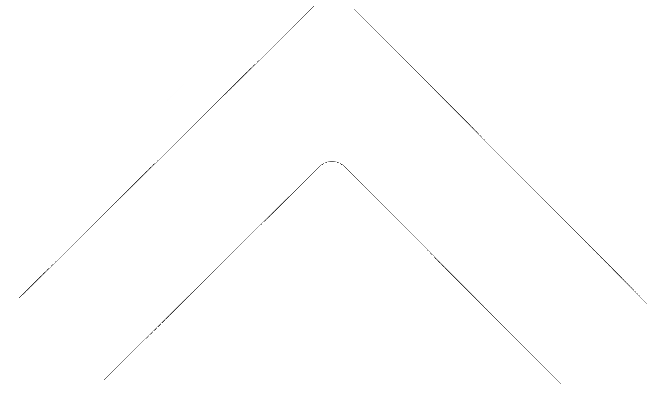
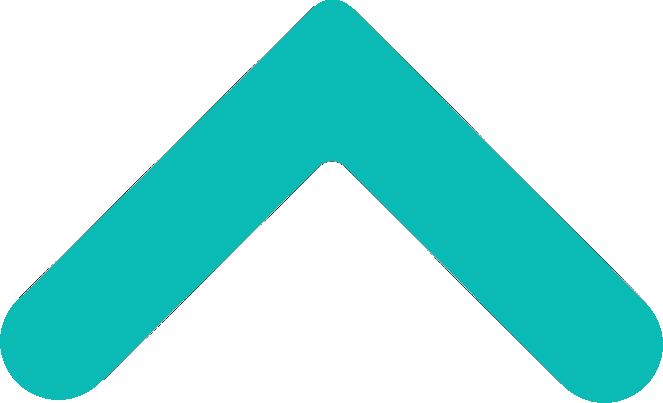
6

diff --git a/affiliation.html b/affiliation.html
@@ -4,11 +4,10 @@
 	<!-- Global site tag (gtag.js) - Google Analytics -->
 	<script async src="https://www.googletagmanager.com/gtag/js?id=G-1KHWXSW6M0"></script>
 	<script>
-	  window.dataLayer = window.dataLayer || [];
-	  function gtag(){dataLayer.push(arguments);}
-	  gtag('js', new Date());
-
-	  gtag('config', 'G-1KHWXSW6M0');
+		window.dataLayer = window.dataLayer || [];
+		function gtag(){dataLayer.push(arguments);}
+		gtag('js', new Date())	
+		gtag('config', 'G-1KHWXSW6M0');
 	</script>
 
 	<meta charset="utf-8">
@@ -103,8 +102,8 @@
 					Prova il calcolatore e dai un'occhiata al potenziale della filiera dei contatti, sono riportati anche i valori dei premi per singolo utente evidenziati in giallo.</p>
 				<p></p>
 			</div>
-
-			<div class="wrapper" id="calculator">
+			<div class="wrapper">
+				<div class="anchor-adjust-calculator" id="calculator"></div>
 
 
 				<h1 class="wrapper__title">Calcolatore filiera</h1>
@@ -122,25 +121,25 @@
 								<input class="input calculator__tip" type="range" min="0" max="10" value="0" step="1" id="tip1" required/>
 								<p id="slider-value-1"></p>
 						</div>
-							<div class="calculator__row">
-								<label for="tip">2° Livello<span class="tip-amount"></span></label>
-								<input class="input calculator__tip" type="range" min="0" max="10" value="0" step="1" id="tip2" required/>
-								<p id="slider-value-2"></p>
+						<div class="calculator__row">
+							<label for="tip">2° Livello<span class="tip-amount"></span></label>
+							<input class="input calculator__tip" type="range" min="0" max="10" value="0" step="1" id="tip2" required/>
+							<p id="slider-value-2"></p>
 						</div>
-							<div class="calculator__row">
-								<label for="tip">3° Livello<span class="tip-amount"></span></label>
-								<input class="input calculator__tip" type="range" min="0" max="10" value="0" step="1" id="tip3" required/>
-								<p id="slider-value-3"></p>
+						<div class="calculator__row">
+							<label for="tip">3° Livello<span class="tip-amount"></span></label>
+							<input class="input calculator__tip" type="range" min="0" max="10" value="0" step="1" id="tip3" required/>
+							<p id="slider-value-3"></p>
 						</div>
-							<div class="calculator__row">
-								<label for="tip">4° Livello<span class="tip-amount"></span></label>
-								<input class="input calculator__tip" type="range" min="0" max="10" value="0" step="1" id="tip4" required/>
-								<p id="slider-value-4"></p>
+						<div class="calculator__row">
+							<label for="tip">4° Livello<span class="tip-amount"></span></label>
+							<input class="input calculator__tip" type="range" min="0" max="10" value="0" step="1" id="tip4" required/>
+							<p id="slider-value-4"></p>
 						</div>
-							<div class="calculator__row">
-								<label for="tip">5° Livello<span class="tip-amount"></span></label>
-								<input class="input calculator__tip" type="range" min="0" max="10" value="0" step="1" id="tip5" required/>
-								<p id="slider-value-5"></p>
+						<div class="calculator__row">
+							<label for="tip">5° Livello<span class="tip-amount"></span></label>
+							<input class="input calculator__tip" type="range" min="0" max="10" value="0" step="1" id="tip5" required/>
+							<p id="slider-value-5"></p>
 						</div>
 
 						<div class="result__row">
@@ -170,123 +169,126 @@
 				<p class="hover-underline-animation">Hover w3resource text to see the effect!</p>--->
 
 			<div class="table-container">
-				<div class="autentica-table-title">Premio Autentica</div>
-				<div class="anchor-adjust" id="table-autentica"></div>
+				<div class="table-title">Premio Autentica</div>
+				<div class="anchor-adjust-tab1" id="table-autentica"></div>
 				<div class="table-grid tables">
 				
-				    <div class="table-item first-row">Livello</div>
-				    <div class="table-item first-row">Numero utenti</div>
-				    <div class="table-item first-row">Premio per utente</div>
-				    <div class="table-item first-row">Premio per livello</div>
+					<div class="table-item first-row">Livello</div>
+					<div class="table-item first-row">Numero utenti</div>
+					<div class="table-item first-row">Premio per utente</div>
+					<div class="table-item first-row">Premio per livello</div>
 
-				    <div class="table-item">1°</div>
-				    <div class="table-item"id="tab1_m1"></div>
-				    <div class="table-item"><span class="yellow_amount">10 €</span></div>
-				    <div class="table-item"id="tab1_p1"></div>
+					<div class="table-item">1°</div>
+					<div class="table-item"id="tab1_m1"></div>
+					<div class="table-item"><span class="yellow_amount">10 €</span></div>
+					<div class="table-item"id="tab1_p1"></div>
 
-				    <div class="table-item"></div>
-				    <div class="table-item"><div class="table-multiplier"id="tab1_m2"></div></div>
-				    <div class="table-item"></div>
-				    <div class="table-item"></div>
+					<div class="table-item"></div>
+					<div class="table-item"><div class="table-multiplier"id="tab1_m2"></div></div>
+					<div class="table-item"></div>
+					<div class="table-item"></div>
 
-				    <div class="table-item">2°</div>
-				    <div class="table-item"id="tab1_u2"></div>
-				    <div class="table-item"><span class="yellow_amount">0,50 €</span></div>
-				    <div class="table-item"id="tab1_p2"></div>
+					<div class="table-item">2°</div>
+					<div class="table-item"id="tab1_u2"></div>
+					<div class="table-item"><span class="yellow_amount">0,50 €</span></div>
+					<div class="table-item"id="tab1_p2"></div>
 
-				    <div class="table-item"></div>
-				    <div class="table-item"><div class="table-multiplier"id="tab1_m3"></div></div>
-				    <div class="table-item"></div>
-				    <div class="table-item"></div>
+					<div class="table-item"></div>
+					<div class="table-item"><div class="table-multiplier"id="tab1_m3"></div></div>
+					<div class="table-item"></div>
+					<div class="table-item"></div>
 
-				    <div class="table-item">3°</div>
-				    <div class="table-item"id="tab1_u3"></div>
-				    <div class="table-item"><span class="yellow_amount">1 €</span></div>
-				    <div class="table-item"id="tab1_p3"></div>
+					<div class="table-item">3°</div>
+					<div class="table-item"id="tab1_u3"></div>
+					<div class="table-item"><span class="yellow_amount">1 €</span></div>
+					<div class="table-item"id="tab1_p3"></div>
 
-				    <div class="table-item"></div>
-				    <div class="table-item"><div class="table-multiplier"id="tab1_m4"></div></div>
-				    <div class="table-item"></div>
-				    <div class="table-item"></div>
+					<div class="table-item"></div>
+					<div class="table-item"><div class="table-multiplier"id="tab1_m4"></div></div>
+					<div class="table-item"></div>
+					<div class="table-item"></div>
 
-				    <div class="table-item">4°</div>
-				    <div class="table-item"id="tab1_u4"></div>
-				    <div class="table-item"><span class="yellow_amount">1,50 €</span></div>
-				    <div class="table-item"id="tab1_p4"></div>
+					<div class="table-item">4°</div>
+					<div class="table-item"id="tab1_u4"></div>
+					<div class="table-item"><span class="yellow_amount">1,50 €</span></div>
+					<div class="table-item"id="tab1_p4"></div>
 
-				    <div class="table-item"></div>
-				    <div class="table-item"><div class="table-multiplier"id="tab1_m5"></div></div>
-				    <div class="table-item"></div>
-				    <div class="table-item"></div>
+					<div class="table-item"></div>
+					<div class="table-item"><div class="table-multiplier"id="tab1_m5"></div></div>
+					<div class="table-item"></div>
+					<div class="table-item"></div>
 
-				    <div class="table-item">5°</div>
-				    <div class="table-item"id="tab1_u5"></div>
-				    <div class="table-item"><span class="yellow_amount">2 €</span></div>
-				    <div class="table-item"id="tab1_p5"></div>
+					<div class="table-item">5°</div>
+					<div class="table-item"id="tab1_u5"></div>
+					<div class="table-item"><span class="yellow_amount">2 €</span></div>
+					<div class="table-item"id="tab1_p5"></div>
 
-				    <div class="table-item last-row"></div>
-				    <div class="table-item last-row">Totale utenti:<br><span id="tab1_u12345"></span></div>
-				    <div class="table-item last-row"></div>
-			    	<div class="table-item last-row">Totale premio:<br><span class="autentica_result"></span><br></div>
+					<div class="table-item last-row"></div>
+					<div class="table-item last-row">Totale utenti:<br><span id="tab1_u12345"></span></div>
+					<div class="table-item last-row"></div>
+					<div class="table-item last-row">Totale premio:<br><span class="autentica_result"></span><br></div>
 				</div>
+				<div class="table-title back-on-top"><a href="#calculator"><img src="images/up-icon.png" alt="back on top icon"></a></div>
 
-				<div class="autentica-table-title" id="table-rendita">Premio Rendita</div>
+				<div class="table-title" id="table-rendita">Premio Rendita</div>
 				<div class="table-grid tables">
-				    <div class="table-item first-row"><span>Livello</span></div>
-				    <div class="table-item first-row"><span>Numero utenti</span></div>
-				    <div class="table-item first-row"><span>Premio per utente</span></div>
-				    <div class="table-item first-row"><span>Premio per livello</span></div>
+					<div class="table-item first-row"><span>Livello</span></div>
+					<div class="table-item first-row"><span>Numero utenti</span></div>
+					<div class="table-item first-row"><span>Premio per utente</span></div>
+					<div class="table-item first-row"><span>Premio per livello</span></div>
 
-				    <div class="table-item">1°</div>
-				    <div class="table-item"id="tab2_m1"></div>
-				    <div class="table-item"><span class="yellow_amount">2%</span><span class="monthly"></span></div>
-				    <div class="table-item"id="tab2_p1"></div>
+					<div class="table-item">1°</div>
+					<div class="table-item"id="tab2_m1"></div>
+					<div class="table-item"><span class="yellow_amount">2%</span><span class="monthly"></span></div>
+					<div class="table-item"id="tab2_p1"></div>
 
-				    <div class="table-item"></div>
-				    <div class="table-item"><div class="table-multiplier"id="tab2_m2"></div></div>
-				    <div class="table-item"></div>
-				    <div class="table-item"></div>
+					<div class="table-item"></div>
+					<div class="table-item"><div class="table-multiplier"id="tab2_m2"></div></div>
+					<div class="table-item"></div>
+					<div class="table-item"></div>
 
-				    <div class="table-item">2°</div>
-				    <div class="table-item"id="tab2_u2"></div>
-				    <div class="table-item"><span class="yellow_amount">1%</span><span class="monthly"></span></div>
-				    <div class="table-item"id="tab2_p2"></div>
+					<div class="table-item">2°</div>
+					<div class="table-item"id="tab2_u2"></div>
+					<div class="table-item"><span class="yellow_amount">1%</span><span class="monthly"></span></div>
+					<div class="table-item"id="tab2_p2"></div>
 
-				    <div class="table-item"></div>
-				    <div class="table-item"><div class="table-multiplier"id="tab2_m3"></div></div>
-				    <div class="table-item"></div>
-				    <div class="table-item"></div>
+					<div class="table-item"></div>
+					<div class="table-item"><div class="table-multiplier"id="tab2_m3"></div></div>
+					<div class="table-item"></div>
+					<div class="table-item"></div>
 
-				    <div class="table-item">3°</div>
-				    <div class="table-item"id="tab2_u3"></div>
-				    <div class="table-item"><span class="yellow_amount">1%</span><span class="monthly"> </span></div>
-				    <div class="table-item"id="tab2_p3"></div>
+					<div class="table-item">3°</div>
+					<div class="table-item"id="tab2_u3"></div>
+					<div class="table-item"><span class="yellow_amount">1%</span><span class="monthly"> </span></div>
+					<div class="table-item"id="tab2_p3"></div>
 
-				    <div class="table-item"></div>
-				    <div class="table-item"><div class="table-multiplier"id="tab2_m4"></div></div>
-				    <div class="table-item"></div>
-				    <div class="table-item"></div>
+					<div class="table-item"></div>
+					<div class="table-item"><div class="table-multiplier"id="tab2_m4"></div></div>
+					<div class="table-item"></div>
+					<div class="table-item"></div>
 
-				    <div class="table-item">4°</div>
-				    <div class="table-item"id="tab2_u4"></div>
-				    <div class="table-item"><span class="yellow_amount">1%</span><span class="monthly"> </span></div>
-				    <div class="table-item"id="tab2_p4"></div>
+					<div class="table-item">4°</div>
+					<div class="table-item"id="tab2_u4"></div>
+					<div class="table-item"><span class="yellow_amount">1%</span><span class="monthly"> </span></div>
+					<div class="table-item"id="tab2_p4"></div>
 
-				    <div class="table-item"></div>
-				    <div class="table-item"><div class="table-multiplier"id="tab2_m5"></div></div>
-				    <div class="table-item"></div>
-				    <div class="table-item"></div>
+					<div class="table-item"></div>
+					<div class="table-item"><div class="table-multiplier"id="tab2_m5"></div></div>
+					<div class="table-item"></div>
+					<div class="table-item"></div>
 
-				    <div class="table-item">5°</div>
-				    <div class="table-item"id="tab2_u5"></div>
-				    <div class="table-item"><span class="yellow_amount">2%</span><span class="monthly"></span></div>
-				    <div class="table-item"id="tab2_p5"></div>
+					<div class="table-item">5°</div>
+					<div class="table-item"id="tab2_u5"></div>
+					<div class="table-item"><span class="yellow_amount">2%</span><span class="monthly"></span></div>
+					<div class="table-item"id="tab2_p5"></div>
 
-				    <div class="table-item last-row"></div>
-				    <div class="table-item last-row">Totale utenti:<br><span id="tab2_u12345"></span></div>
-				    <div class="table-item last-row"></div>
-			    	<div class="table-item last-row">Totale premio:<br><span class="rendita_result"></span><br></div>
+					<div class="table-item last-row"></div>
+					<div class="table-item last-row">Totale utenti:<br><span id="tab2_u12345"></span></div>
+					<div class="table-item last-row"></div>
+					<div class="table-item last-row">Totale premio:<br><span class="rendita_result"></span><br></div>
 				</div>
+				<div class="table-title back-on-top"><a href="#calculator"><img src="images/up-icon.png" alt="back on top icon"></a></div>
+
 			</div>
 
 		</main>

diff --git a/affiliation/sliding-calculator.css b/affiliation/sliding-calculator.css
@@ -235,7 +235,7 @@ h2.info {
     left: -3px;
 }
 
-.autentica-table-title, .rendita-table-title {
+.table-title{
     text-align: center;
     background: rgb(181 234 228);
     width: 25%;
@@ -251,15 +251,47 @@ h2.info {
     font-weight: bold;
 }
 
-.autentica-table-title{
+
+
+.table-title:first-of-type{
     margin-top: 200px;
 }
 
+.back-on-top{
+    position: relative;
+    bottom: 200px;
+    border-bottom: 3px solid #5abbb5;
+    border-top: none;
+    border-radius: 0 0 30px 30px;
+    min-width: 50px;
+    width: 50px;
+    height: 30px;
+    margin-top: 0;
+}
+
+.back-on-top:last-of-type{
+    bottom: 160px;
+}
+
+.back-on-top img{
+    width: 100%;
+    position: relative;
+    top: -11px;
+    height: 80%;
+}
+
+
+
 /***anchor adjust***/
 
-.anchor-adjust{
+.anchor-adjust-tab1{
     position: relative;
     top: -200px;
+}
+
+.anchor-adjust-calculator{
+    position: relative;
+    top: -160px;
 }
 
 .tables{

diff --git a/index.html b/index.html
@@ -97,7 +97,7 @@
 			<img class="smartphone" src="images/smartphone-tilted.png" alt="smartphone">
 		</div>
 		<div class="container-slogan">
-			<div class="slogan"><h1>Guadagnare con i tuoi?<br>Ora è possibile!</h1></div>
+			<div class="slogan"><h1>Guadagnare con i tuoi dati?<br>Ora è possibile!</h1></div>
 		</div>
 		<div class="container-grid">
 			<div class="card card-1">
